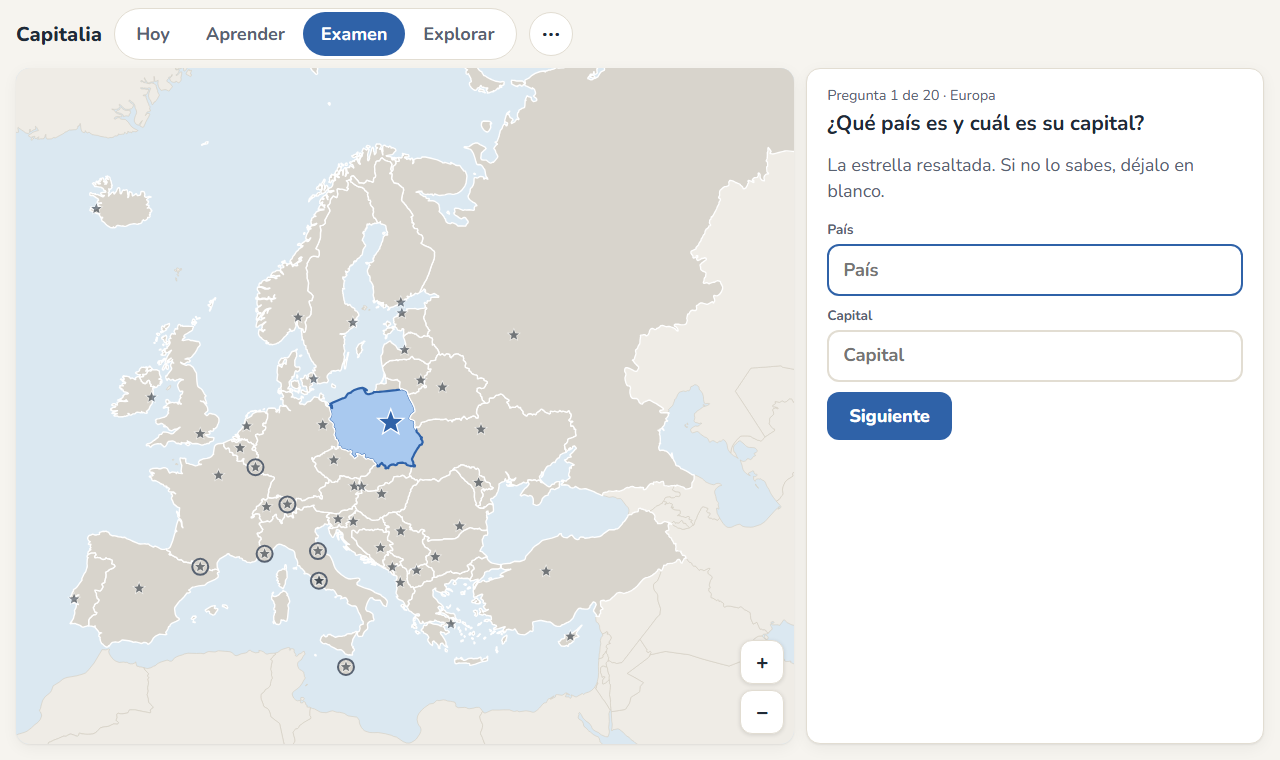
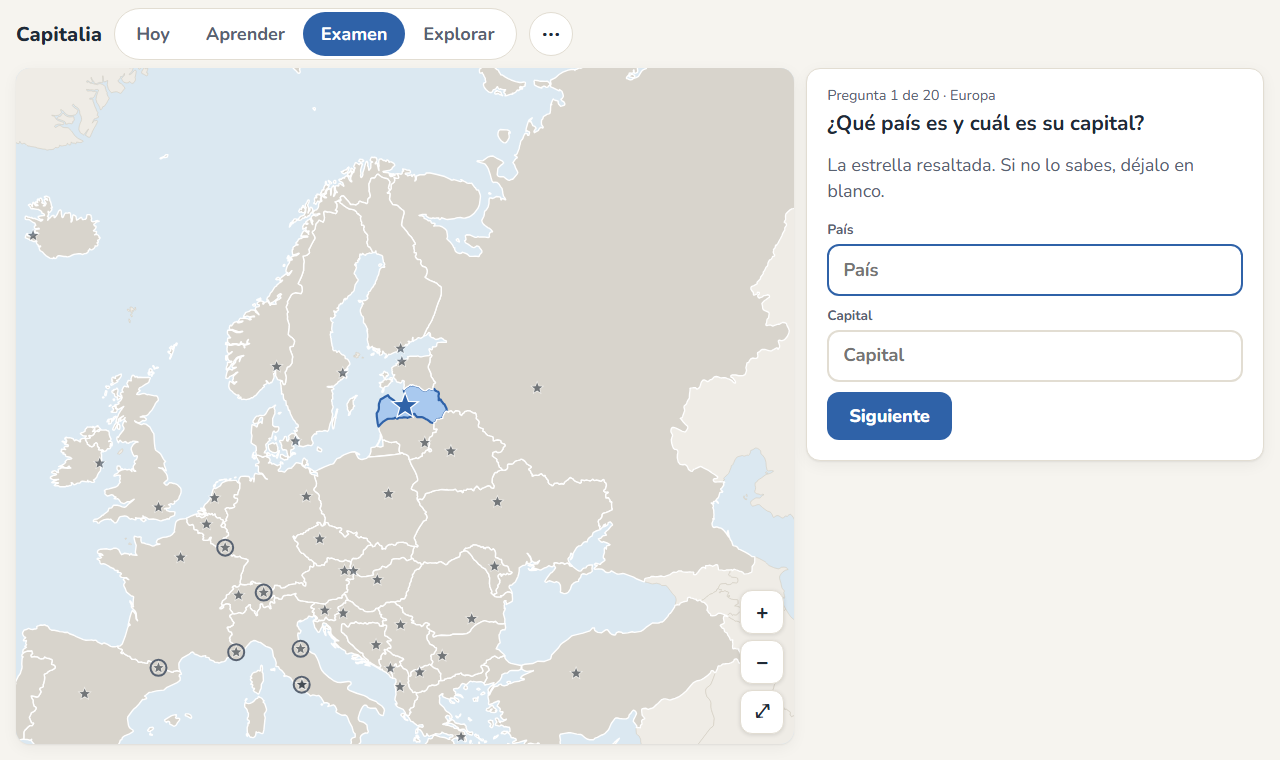
Documentación de la 1.3.0: README, notas técnicas y capturas
- README: alumnos (y pregunta al abrir), panel con explicación de los
  datos y sección Alumnos, copias de un alumno y de todos, privacidad de
  los perfiles, mapa por escalones.
- Notas técnicas: cómo se guardan los alumnos, el arranque, la vuelta
  tras 10 minutos, las copias y las preferencias del dispositivo.
- Capturas del README rehechas (sin el aviso de instalar).

Claude-Session: https://claude.ai/code/session_01Tc2JMAWdw2J7R19oc17MAx

diff --git a/README.md b/README.md
@@ -16,13 +16,13 @@ En lugar de leer una lista una y otra vez, la app te hace **recordar** las capit
 
 ## Cómo te ayuda a aprender
 
-- **Solo un continente si hace falta.** Si los exámenes de Europa y Asia van por separado, Hoy se puede limitar a uno; el otro queda en pausa hasta volver a "Todo".
 - **Hoy: diez minutos al día.** Al abrir la app ves lo que toca, cuántos países llevas aprendidos y el mapa coloreado con tu progreso. La app calcula cuándo estás a punto de olvidar cada capital y te la pregunta justo entonces (repetición espaciada), y cada día mete unos pocos países nuevos entre los repasos. Lo que te sabes sale cada vez menos; lo que te cuesta, más a menudo.
 - **Aprender, a tu ritmo.** Cada país sube cuatro escalones, de más fácil a más difícil: elegir la capital entre cuatro, colocar capitales en su país, escribirla sin ayuda y, por último, el mapa mudo: ver solo la estrella y escribir país y capital. Sube de escalón al acertarlo dos veces con otras preguntas por medio. Cuando tienes abiertas todas las regiones de un continente, puedes practicarlo entero.
 - **Examen de prueba.** Un mapa mudo del continente entero con las estrellas de las capitales, como el examen de clase, con nota sobre 10 (medio punto si aciertas solo el país o solo la capital). Lo que falles puedes mandarlo a Hoy para repasarlo antes.
-- **El mapa es tu marcador.** Cada país se colorea a medida que lo dominas, y las regiones se van abriendo de una en una.
+- **Solo un continente si hace falta.** Si los exámenes de Europa y Asia van por separado, Hoy se puede limitar a uno; el otro queda en pausa hasta volver a "Todo".
+- **El mapa es tu marcador.** Cada país se colorea a medida que sube de escalón, y las regiones se van abriendo de una en una.
 - **Trucos de memoria.** Algunos países traen uno, y puedes inventar los tuyos (la app incluye una guía para fabricarlos).
-- **Varios alumnos en el mismo dispositivo**, cada uno con su progreso: un nombre y una imagen (inicial o icono), sin fotos ni cuentas.
+- **Varios alumnos en el mismo dispositivo**, cada uno con su progreso: un nombre y una imagen (inicial o icono), sin fotos ni cuentas. Con dos o más, la app pregunta quién va a estudiar al abrirla.
 - **Modo claro y oscuro**, automático o a elegir.
 - **Fallar no castiga.** Cuando fallas, ves la respuesta y el truco, y ese país vuelve a salir en unos minutos. No hay rachas ni puntos que perder.
 - **Escribir sin agobios.** No hace falta poner tildes ni mayúsculas, y si se te escapa una letra te lo damos por bueno (pero vuelve a salir para afianzarlo).
@@ -37,15 +37,16 @@ En lugar de leer una lista una y otra vez, la app te hace **recordar** las capit
 
 La app tiene un **panel para adultos** protegido con un PIN (botón ⋯, arriba a la derecha):
 
-- **Resumen:** cómo va cada región, qué países se le atascan al alumno y cuántos días ha practicado.
+- **Resumen:** cuántos países lleva aprendidos en cada región, cuáles se le atascan y cuántos días ha practicado, con una explicación de qué significa cada dato.
 - **Examen:** marca los países que entran (puedes marcar Europa o Asia enteras, o una región) y la fecha. Hoy les dará prioridad, y el alumno podrá hacer un examen de prueba solo con ellos.
 - **Trucos:** revisa, cambia o desactiva los trucos de memoria que trae la app.
 - **Ajustes:** cuántos países nuevos al día como mucho, desbloquear todas las regiones (si el curso va en otro orden), cambiar el PIN o reiniciar el progreso.
+- **Alumnos:** si estudia más de uno en el dispositivo, cada uno tiene su progreso y sus ajustes de examen (el PIN es común). Desde aquí se borra un alumno y se descarga o restaura la copia de todos a la vez.
 
 La primera vez que se abre, la app pregunta quién la está usando y ofrece una guía breve tanto al alumno como a los adultos.
 
 <p align="center">
-  <img src="docs/capturas/panel-adultos.png" alt="Panel para adultos: dominio por región y países que más se atascan" width="560">
+  <img src="docs/capturas/panel-adultos.png" alt="Panel para adultos: países aprendidos por región y los que más se atascan" width="560">
 </p>
 
 ## Instalarla
@@ -60,7 +61,9 @@ Se puede usar directamente en el navegador, pero instalada se abre como una app 
 
 Todo se guarda **solo en tu dispositivo**. No hay cuentas, no se envían datos a ningún servidor y no hay publicidad ni seguimiento.
 
-Como el progreso vive en el dispositivo, conviene hacer de vez en cuando una **copia de seguridad** (botón ⋯ → Descargar copia). Con "Copiar código" puedes pasar el progreso a otro dispositivo.
+Como el progreso vive en el dispositivo, conviene hacer de vez en cuando una **copia de seguridad** (botón ⋯ → Descargar copia). Con "Copiar código" puedes pasar el progreso a otro dispositivo. Con varios alumnos, esa copia es la del alumno activo (y dice de quién es); la de todos a la vez está en el panel para adultos.
+
+Los perfiles de alumno son solo un nombre y una imagen elegida de la app (una inicial o un icono): no hay fotos ni ningún dato que salga del dispositivo.
 
 ## Qué incluye ahora
 

diff --git a/docs/notas-tecnicas.md b/docs/notas-tecnicas.md
@@ -68,3 +68,13 @@ Las de la v2 (`prueba-aprender`, `prueba-hoy`, `prueba-examen`, `prueba-tema`) c
 - `src/ui/bienvenida.ts` (primer arranque y guía de adultos), `guia.ts` (guía del alumno), `acerca.ts` (versión y créditos; la autoría está en `AUTORIA`).
 - Los atajos de teclado de las preguntas (`Teclado` en `comun.ts`) se ignoran mientras haya un `<dialog>` abierto.
 - Cambios de ajustes que afectan a los datos (Kosovo, examen, importar) recargan la página.
+
+## Alumnos (perfiles locales, versión 1.3.0)
+- Lógica pura en `src/logic/perfiles.ts`; interfaz en `src/ui/perfiles.ts` (imagen, "¿Quién va a estudiar?", añadir y editar).
+- Guardado: el índice de alumnos y el PIN común en `capitalia-perfiles`. El progreso del primer alumno sigue en `progreso-capitales` (el de antes de los perfiles es suyo sin moverlo); el de los demás, en `progreso-capitales-<id>`.
+- Arranque (`iniciarApp` en `app.ts`): con dos o más alumnos pregunta quién estudia; el elegido se recuerda en `sessionStorage` (`capitalia-perfil-elegido`) para no preguntar al recargar en la misma visita. Cambiar de alumno guarda y recarga la página.
+- `vigilarVueltas`: si la app ha estado oculta más de 10 minutos, al volver vuelve a preguntar (en iOS volver solo reanuda la app).
+- El PIN vive en el índice y se copia al estado del alumno al cargarlo; al guardar, si cambió, se actualiza el índice.
+- Copias (`src/logic/copia.ts`): la de un alumno (`formato: 'progreso-capitales'`, con `alumno`, `dispositivo` y `fecha`; código `CAPITALES2:`, que también los lleva, y se siguen leyendo los `CAPITALES1:`) y la de todos (`formato: 'capitalia-casa'`, desde el panel).
+- Preferencias del dispositivo, fuera del progreso: tema (`capitalia-tema`), aviso de instalar descartado (`capitalia-aviso-instalar`) y aviso de pausa plegado (`capitalia-aviso-pausa-plegado`).
+

diff --git a/docs/plan-v2.md b/docs/plan-v2.md
@@ -3,7 +3,7 @@
 Rediseño acordado con el responsable (SPEC 4, 6 y 7). Se hizo en la rama `rediseno-hoy-aprender-examen` y se fusionó con la rama publicada el 2026-11-01. La rama publicada se llama ahora `main` (antes `claude/hito-1-plan-7opthj`).
 
 ## Ahora mismo
-- **Estado:** v2 terminada (F1 a F6), aprobada por el responsable, fusionada y **publicada** el 2026-11-01 (salió como 2.0.0; numeración correcta: 1.1.0). Rama publicada: `main` (Pages publica con cada push a `main`). En curso, en la rama `hoy-solo-un-continente`: "Qué estudia Hoy" (versión 1.2.0), sin fusionar.
+- **Estado:** v2 terminada (F1 a F6), aprobada por el responsable, fusionada y **publicada** el 2026-11-01 (salió como 2.0.0; numeración correcta: 1.1.0). Rama publicada: `main` (Pages publica con cada push a `main`). Después: 1.2.0 ("Qué estudia Hoy", instalar la app, aviso de pausa plegable) y 1.3.0 (alumnos), publicadas.
 - **Siguiente paso:** que el alumno la use y recoger lo que se vea raro.
 - **Pendientes que no bloquean:** pruebas con el alumno en iPad y iPhone reales; Explorar en "Europa entera" no tiene prueba automática propia.
 
